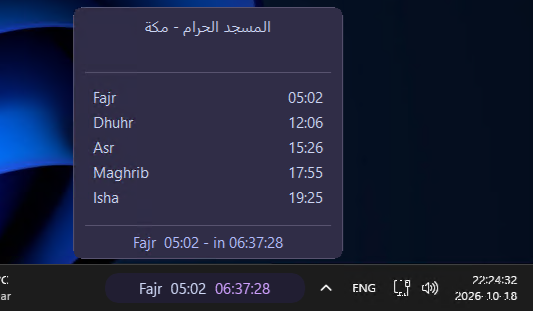
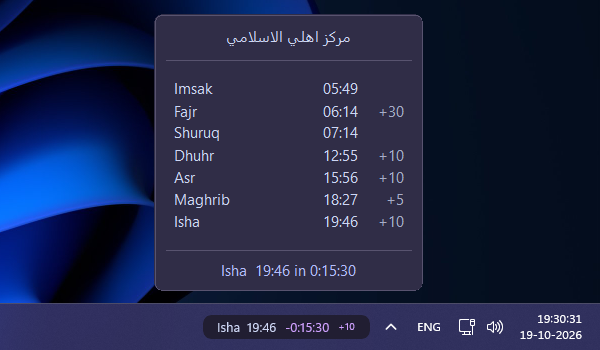
Expand theme gallery with preset previews
Add screenshots for the available themes and a custom neon example, update the gallery documentation with setup details, and correct the Catppuccin screenshot filename.

diff --git a/THEMES.md b/THEMES.md
@@ -4,24 +4,45 @@ Choose a ready-made look or mix individual colors. This guide reflects the **v0.
 
 ## Gallery
 
-These are **source-defined palette colors**, not screenshots of every theme. Windows / System uses the Windows light/dark preference and system highlight accent; Custom begins with Emberveil-like fallback colors.
+The gallery shows the **v0.7.1 preset previews** alongside their source-defined pill palette colors. Screenshots are real captures; prayer times and countdowns may differ because they were taken at different moments. Windows / System follows Windows appearance and accent settings. Custom starts with fallback colors that can be overridden.
 
 | Theme | Pill background | Prayer text | Countdown | Separator | Preview |
 |---|---|---|---|---|---|
 | **Traditional Islamic** | `#123D34` | `#F5EAD3` | `#E4C784` | `#C9B789` | ![Traditional Islamic](screenshots/Mawaqit-Traditional-Islamic.png) |
-| **Emerald Mosque** | `#102B27` | `#F3E8CF` | `#D4AF70` | `#B6C9BD` | Palette only |
+| **Emerald Mosque** | `#102B27` | `#F3E8CF` | `#D4AF70` | `#B6C9BD` | ![Emerald Mosque](screenshots/Mawaqit-Emerald-Mosque.png) |
 | **Emberveil** | `#171B20` | `#F5E6C8` | `#FFBC5E` | `#D9A441` | ![Emberveil](screenshots/Mawaqit-Emberveil.png) |
-| **Emberveil Midnight** | `#0A0C0E` | `#F5E6C8` | `#FFBC5E` | `#B8A98A` | Palette only |
-| **Emberveil Daybreak** | `#FFF2D8` | `#1A1F26` | `#B87924` | `#8A642D` | Palette only |
-| **Catppuccin Mocha** | `#211E32` | `#CDD6F4` | `#CFA1FF` | `#A6ADC8` | ![Catppuccin Mocha](screenshots/Mawaqit-Catppucchin-Moca.png) |
-| **Dracula** | `#282A36` | `#F8F8F2` | `#BD93F9` | `#6272A4` | Palette only |
-| **Nord** | `#2E3440` | `#ECEFF4` | `#88C0D0` | `#81A1C1` | Palette only |
-| **Gruvbox Dark** | `#282828` | `#EBDBB2` | `#FABD2F` | `#928374` | Palette only |
-| **Tokyo Night** | `#1A1B26` | `#C0CAF5` | `#7AA2F7` | `#565F89` | Palette only |
-| **Solarized Dark** | `#002B36` | `#93A1A1` | `#B58900` | `#586E75` | Palette only |
-| **Solarized Light** | `#FDF6E3` | `#586E75` | `#268BD2` | `#93A1A1` | Palette only |
+| **Emberveil Midnight** | `#0A0C0E` | `#F5E6C8` | `#FFBC5E` | `#B8A98A` | ![Emberveil Midnight](screenshots/Mawaqit-Emberveil-Midnight.png) |
+| **Emberveil Daybreak** | `#FFF2D8` | `#1A1F26` | `#B87924` | `#8A642D` | ![Emberveil Daybreak](screenshots/Mawaqit-Emberveil-Daybreak.png) |
+| **Catppuccin Mocha** | `#211E32` | `#CDD6F4` | `#CFA1FF` | `#A6ADC8` | ![Catppuccin Mocha](screenshots/Mawaqit-Catppuccin-Mocha.png) |
+| **Dracula** | `#282A36` | `#F8F8F2` | `#BD93F9` | `#6272A4` | ![Dracula](screenshots/Mawaqit-Dracula.png) |
+| **Nord** | `#2E3440` | `#ECEFF4` | `#88C0D0` | `#81A1C1` | ![Nord](screenshots/Mawaqit-Nord.png) |
+| **Gruvbox Dark** | `#282828` | `#EBDBB2` | `#FABD2F` | `#928374` | ![Gruvbox Dark](screenshots/Mawaqit-Gruvbox-Dark.png) |
+| **Tokyo Night** | `#1A1B26` | `#C0CAF5` | `#7AA2F7` | `#565F89` | ![Tokyo Night](screenshots/Mawaqit-Tokyo-Night.png) |
+| **Solarized Dark** | `#002B36` | `#93A1A1` | `#B58900` | `#586E75` | ![Solarized Dark](screenshots/Mawaqit-Solarized-Dark.png) |
+| **Solarized Light** | `#FDF6E3` | `#586E75` | `#268BD2` | `#93A1A1` | ![Solarized Light](screenshots/Mawaqit-Solarized-Light.png) |
+| **Windows / System** | Windows accent | White | White | White | ![Windows / System](screenshots/Mawaqit-Windows-System-Default.png) |
 
 **Windows / System:** Accent-filled pill with white prayer text, countdown and separators by default. The accent follows Windows highlight; users with pale accents or transparent pill backgrounds can adjust text colors through custom overrides. Live pill refresh on Windows appearance changes is deferred to v0.8.0. **Custom fallback:** pill `#211E32`, prayer `#F5E6C8`, countdown `#FFBC5E`, separator `#B8A98A`.
+
+
+## Custom theme showcase
+
+![Custom neon pink theme example](screenshots/Mawaqit-Custom-Example.png)
+
+A deliberately bold example of what is possible with **Advanced → Custom theme settings**. **Neon Maghrib** is a community-style example, **not** an included preset. It uses Catppuccin Mocha as its base, with a solid pill, a blurred popup, and the following custom overrides.
+
+| Custom theme setting | Value | Custom theme setting | Value |
+|---|---|---|---|
+| `PillBackground` | `#080122` | `PopupBackground` | `#080122` |
+| `PillText` | `#FC2281` | `PopupBorder` | `#FC2281` |
+| `PillSeparator` | `#FC2281` | `PopupText` | `#F7A2F7` |
+| `PillCountdown` | `#F7A2F7` | `PopupMuted` | `#FC2281` |
+| `PillIqamah` | `#F72655` | `PopupRule` | `#FC2281` |
+| `PillBorder` | `#FC2281` | `PopupFooter` | `#F7A2F7` |
+
+To reproduce the look, select **General → Theme → Catppuccin Mocha**, then enter these colors under **Advanced → Custom theme settings**. Under **Advanced → Layout settings**, set **Background style** to **Solid**, **Background opacity** to **100%**, **Show pill border** to **On**, and **Fontsize** to **20**. Under **Advanced → Popup appearance**, set **Popup background material** to **Blur** and enable **Show popup border** and **Show popup separators**. The example also uses **Display → Show Shuruq and Imsak** and **Show Iqamah time**.
+
+> **Tip:** Apply the values individually instead of pasting a complete saved configuration. That way, your mosque selection, taskbar position, and other personal settings stay unchanged. Saved custom colors remain active when switching to other presets until cleared.
 
 ## Popup palettes
 
